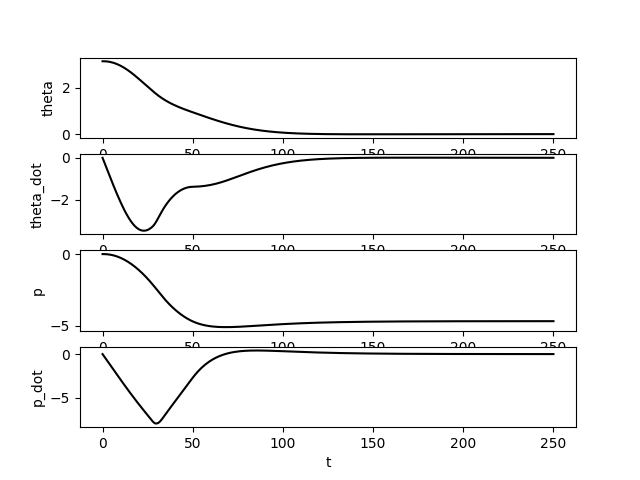
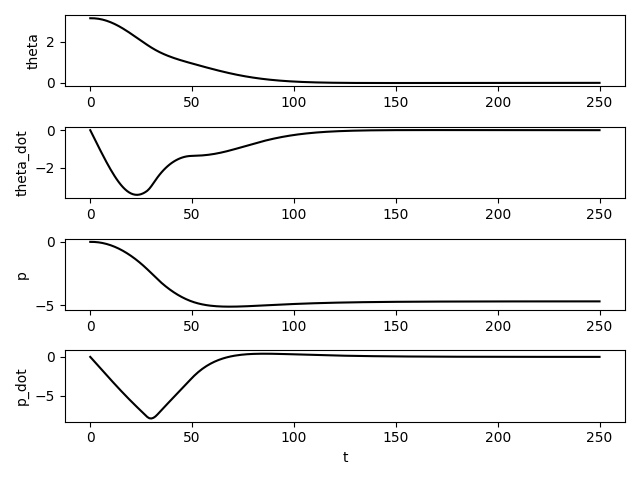
opt plotting

diff --git a/result1/parta_ilqr.py b/result1/parta_ilqr.py
@@ -1,0 +1,215 @@
+import numpy as np
+from casadi import *
+import control # conda install -c conda-forge control slycot
+import matplotlib.pyplot as plt
+
+
+def cas2arr(M):
+    rows, cols = M.shape
+    arr = np.zeros((rows, cols))
+    for r in range(rows):
+        for c in range(cols):
+            arr[r,c] = M[r,c]
+    return arr
+
+def cart_pole_model(x, u):
+    """
+    x: list [theta, w, p, v]
+    u: list [F]
+    """
+    # non linear model
+    x1_eval = substitute([x1], [theta, w, p, v, F], x + u)[0]
+    x1_eval = cas2arr(x1_eval)
+    return x1_eval
+
+def state_space(x, u):
+    """
+    x: list [theta, w, p, v]
+    u: list [F]
+    """
+    # x_k+1 = Ak x_k + Bk u_k
+    At = substitute([A], [theta, w, p, v, F], x + u)
+    At = cas2arr(At[0])
+    Bt = substitute([B], [theta, w, p, v, F], x + u)
+    Bt = cas2arr(Bt[0])
+    xt = np.array(x).reshape(4, 1)
+    ut = np.array(u).reshape(1, 1)
+    xt1 = At @ xt + Bt @ ut
+    return xt1
+
+def cost_function(x, u):
+    # J = x'Qx + u'Ru
+    J = 0.5 * (x.T @ Q @ x + u.T @ R @ u)
+    return J
+
+def cost_x(x):
+    # Jx = Qx
+    J = Q @ x
+    return J
+
+def cost_xx(x):
+    # Jxx = Q
+    return Q
+
+def cost_u(u):
+    # Ju = Ru
+    J = R @ u
+    return J
+
+def cost_uu(u):
+    # Juu = R
+    return R
+
+def ilqr(x, u, iterations):
+    """
+    x: 4 * N
+    u: 1 * N
+    """
+    min_du = 1e-3
+    min_dJ = 1e-4
+    min_dx = 1e-4
+
+    back_track = 1
+
+    prev_cost = np.inf
+    smallest_cost = np.inf
+
+    for i in range(iterations):
+        # Backward pass
+        Vx = np.zeros((4, N))
+        Vxx = np.zeros((4, 4, N))
+        Vx[:, -1] = cost_x(x[:, -1]).reshape(4) * 5
+        # print(Vx[:, -1])
+        Vxx[:, :, -1] = cost_xx(x[:, -1])
+
+        du = np.zeros((1, N))
+
+        for k in range(N-2, -1, -1):
+            # if x[:, k][0] > np.pi:
+            #     x[:, k][0] = x[:, k][0] - 2 * np.pi
+            # elif x[:, k][0] < -np.pi:
+            #     x[:, k][0] = x[:, k][0] + 2 * np.pi
+
+            # Compute Q function
+            fu = substitute([B], [theta, w, p, v, F], x[:, k].flatten().tolist() + u[:, k].tolist())[0]
+            fu = cas2arr(fu)
+            fx = substitute([A], [theta, w, p, v, F], x[:, k].flatten().tolist() + u[:, k].tolist())[0]
+            fx = cas2arr(fx)
+            
+            Qx = cost_x(x[:, k]) + fx.T @ Vx[:, k+1]
+            Qu = cost_u(u[:, k]) + fu.T @ Vx[:, k+1]
+            Qxx = cost_xx(x[:, k]) + fx.T @ Vxx[:, :, k+1] @ fx
+            Quu = cost_uu(u[:, k]) + fu.T @ Vxx[:, :, k+1] @ fu
+            Qux = fu.T @ Vxx[:, :, k+1] @ fx
+
+            kt = -np.linalg.inv(Quu) @ Qu
+            Kt = -np.linalg.inv(Quu) @ Qux
+
+            du[:, k] = back_track * kt + Kt @ x[:, k]
+            Vx[:, k] = Qx - Kt.T @ Quu @ kt
+            Vxx[:, :, k] = Qxx - Kt.T @ Quu @ Kt
+
+            # du[:, k] = back_track * kt
+            # Vx[:, k] = Qx + Quu @ du[:, k]
+            # Vxx[:, :, k] = Qxx
+
+        if np.max(np.abs(du)) < min_du:
+            print("Converged at iteration {}, with max du: {}".format(i, np.max(np.abs(du))))
+            break
+
+        x_new = np.zeros((4, N))
+        u_new = np.zeros((1, N))
+        x_new[:, 0] = np.array([np.pi, 0, 0, 0]).reshape(4)
+
+        # Forward pass
+        for k in range(N-1):
+            u_new[:, k] = u[:, k] + du[:, k]
+            x_new[:, k+1] = cart_pole_model(x[:, k].flatten().tolist(), [u[:, k]]).reshape(4)
+            # x_new[:, k+1] = state_space(x[:, k].flatten().tolist(), [u[:, k]]).reshape(4)
+            pass
+
+        new_cost = np.sum([cost_function(x_new[:, k], u_new[:, k]) for k in range(N)])
+        if new_cost < smallest_cost:
+            smallest_cost = new_cost
+            opt_x = x_new
+            opt_u = u_new
+
+        x = x_new
+        u = u_new
+        
+        print("iteration : {}, cost : {}, change in cost: {}".format(i, new_cost, new_cost - prev_cost))
+        prev_cost = new_cost
+        back_track = max(back_track - back_track / iterations, 1e-3)
+
+    return opt_x, opt_u
+    return x, u
+
+if __name__ == "__main__":
+    g = 9.8   # Gravity
+    h = 0.02  # Sampling time
+    mc = 1    # Cart mass
+    mp = 0.1  # Pole mass
+    l = 0.5   # Half pole length
+
+    theta = SX.sym("theta")
+    w = SX.sym("w")
+    p = SX.sym("p")
+    v = SX.sym("v")
+
+    F = SX.sym("F")
+
+    alpha = (g * sin(theta) + (cos(theta) * ( -F - mp * l * w**2 * sin(theta))) / (mc + mp)) / (l* (4/3 - mp * cos(theta)**2/(mc + mp)))
+    acc = (F + mp * l * (w**2 * sin(theta) - alpha*cos(theta))) / (mc + mp)
+
+    theta1 = theta + h * w
+    w1 = w + h * alpha
+    p1 = p + h * v
+    v1 = v + h * acc
+
+    J_theta1_theta = jacobian(theta1, theta)
+    J_theta1_w = jacobian(theta1, w)
+
+    x = SX.sym("x", 4,1)
+    x[0,0] = theta
+    x[1,0] = w
+    x[2,0] = p
+    x[3,0] = v
+
+    x1 = SX.sym("x1", 4,1)
+    x1[0,0] = theta1
+    x1[1,0] = w1
+    x1[2,0] = p1
+    x1[3,0] = v1
+
+    A = jacobian(x1, x)
+    B = jacobian(x1, F)
+
+    Q = np.diag([1, 0.1, 1e-9, 1e-9])
+    R = np.diag([0.01])
+
+    ref = np.zeros((4,1))
+
+    state = np.array([np.pi, 0, 0, 0]).reshape(4,1)
+    state_list = state.flatten().tolist()
+
+    sim_time = 10
+    N = int(sim_time / h) + 1
+    tspan = [i * h for i in range(N)]
+
+    # Make initial trajectory
+    x_traj = np.zeros((4, N))
+    x_traj[:,0] = state.reshape(4)
+    u = np.zeros((1, N))
+
+    for i in range(1, N):
+        x_traj[:, i] = cart_pole_model(x_traj[:,i-1].flatten().tolist(), [u[0, i-1]]).reshape(4)
+
+    x_traj, u = ilqr(x_traj, u, 30)
+
+    fig, ax = plt.subplots(2, 1)
+
+    ax[0].plot(tspan, x_traj[0,:], label="theta")
+    ax[1].plot(tspan, u[0,:], label="F")
+    ax[0].legend()
+    ax[1].legend()
+    plt.show()

diff --git a/partb_casadi.py b/partb_casadi.py
@@ -176,8 +176,8 @@ if conf.OnlyProcessData:
     controls_data = np.load("actions.npy")
 
 
-vis = Visualizer(states_data, conf)
-vis.generate_animation()
+# vis = Visualizer(states_data, conf)
+# vis.generate_animation()
 
 fig, axs = plt.subplots(4)
 axs[0].plot(states_data[:, 0], 'k')
@@ -189,6 +189,7 @@ axs[2].set_ylabel('p')
 axs[3].plot(states_data[:, 3], 'k')
 axs[3].set_ylabel('p_dot')
 axs[3].set_xlabel('t')
+fig.tight_layout() 
 # fig.legend()
 plt.savefig("./states.png")
 plt.show()

diff --git a/result1/partb_casadi.py b/result1/partb_casadi.py
@@ -176,8 +176,8 @@ if conf.OnlyProcessData:
     controls_data = np.load("actions.npy")
 
 
-vis = Visualizer(states_data, conf)
-vis.generate_animation()
+# vis = Visualizer(states_data, conf)
+# vis.generate_animation()
 
 fig, axs = plt.subplots(4)
 axs[0].plot(states_data[:, 0], 'k')
@@ -189,6 +189,7 @@ axs[2].set_ylabel('p')
 axs[3].plot(states_data[:, 3], 'k')
 axs[3].set_ylabel('p_dot')
 axs[3].set_xlabel('t')
+fig.tight_layout() 
 # fig.legend()
 plt.savefig("./states.png")
 plt.show()

diff --git a/result2/partb_casadi.py b/result2/partb_casadi.py
@@ -180,8 +180,8 @@ if conf.OnlyProcessData:
     controls_data = np.load("actions.npy")
 
 
-vis = Visualizer(states_data, conf)
-vis.generate_animation()
+# vis = Visualizer(states_data, conf)
+# vis.generate_animation()
 
 fig, axs = plt.subplots(4)
 axs[0].plot(states_data[:, 0], 'k')
@@ -193,6 +193,7 @@ axs[2].set_ylabel('p')
 axs[3].plot(states_data[:, 3], 'k')
 axs[3].set_ylabel('p_dot')
 axs[3].set_xlabel('t')
+fig.tight_layout() 
 # fig.legend()
 plt.savefig("./states.png")
 plt.show()
